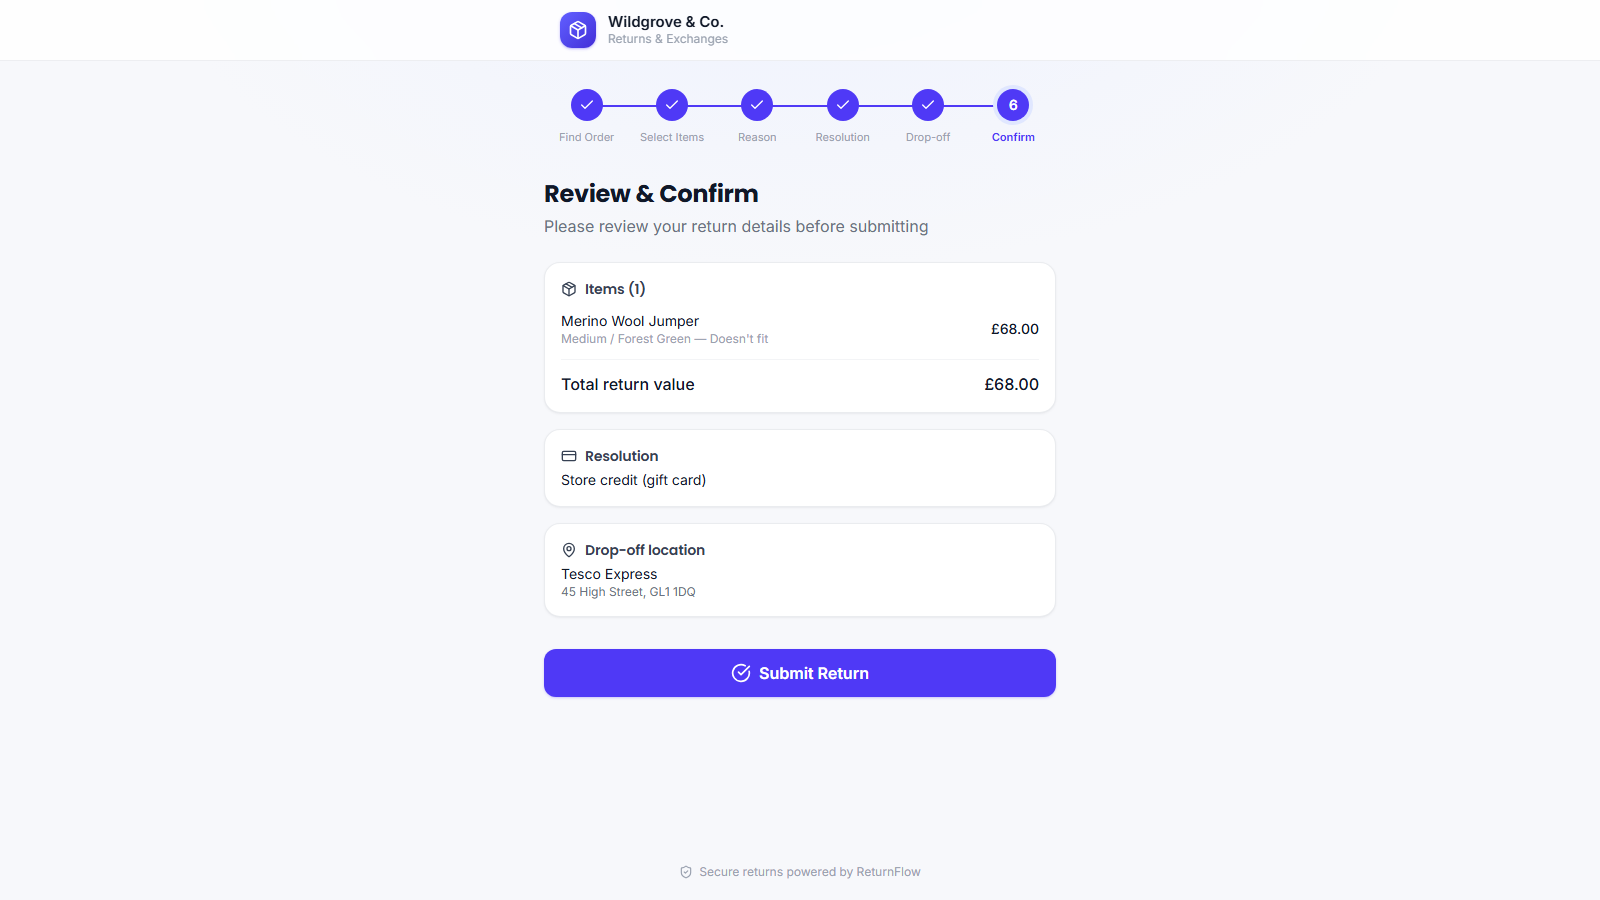
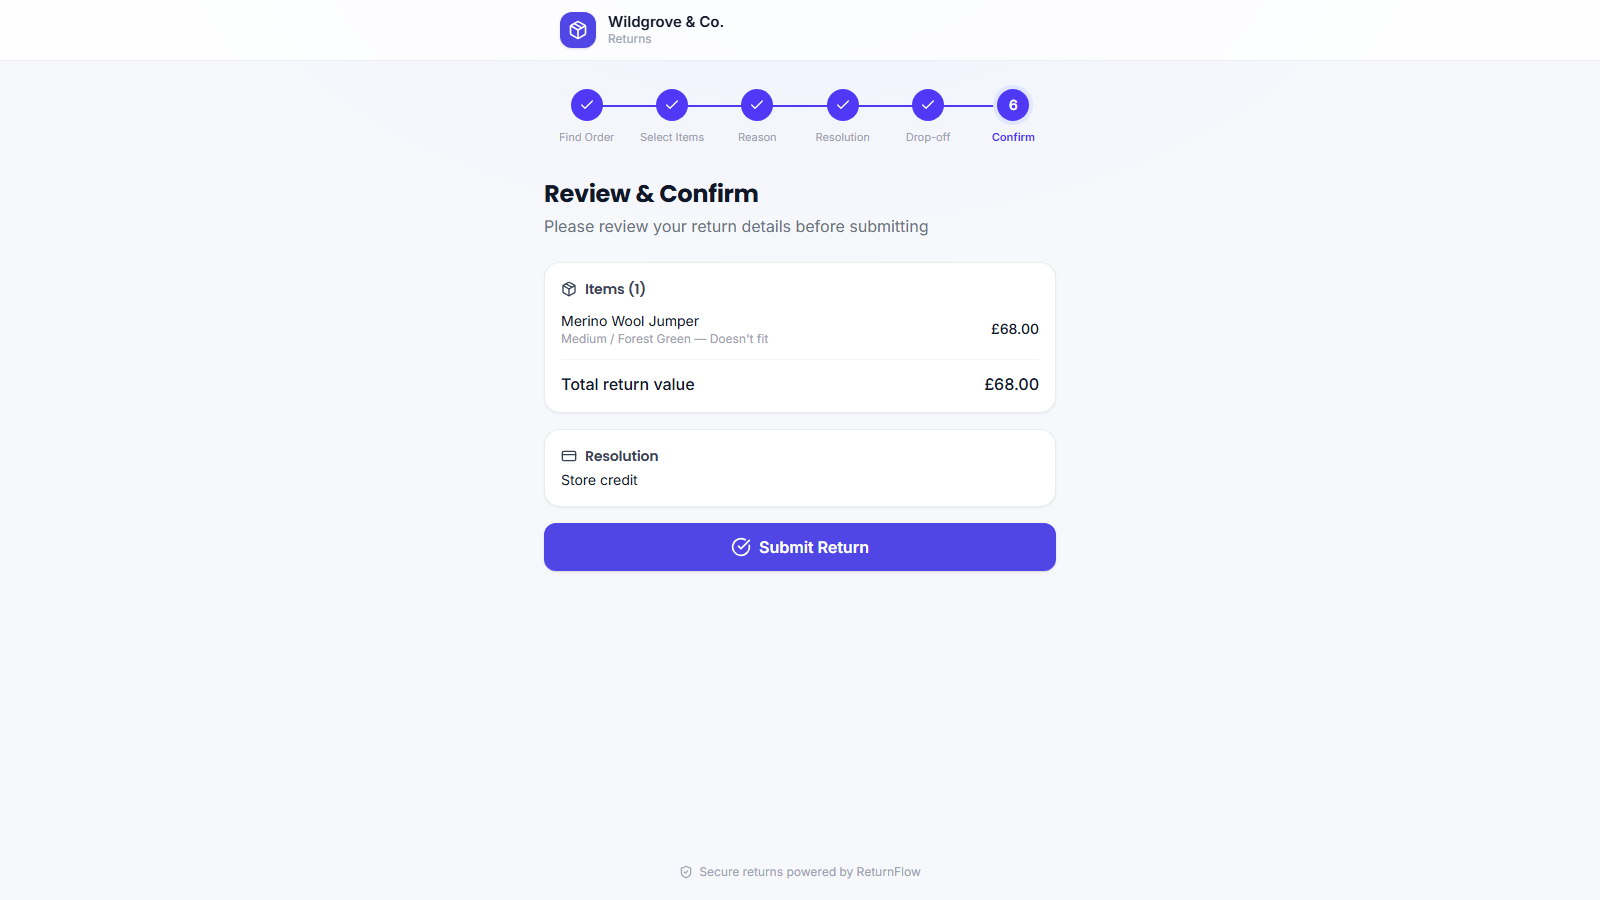
fix(listing): screenshots and wording show only features the app has
App Store requirement 1.1.4 (factual listing). The screenshots were
captured in June, before exchanges were switched off and before store
credit moved from gift cards to Shopify store credit.

- Portal: header says "Returns" (was "Returns & Exchanges"). Demo data
  offers refund + store credit only and picks no drop-off point (the portal
  links to the carriers' own finders).
- Merchant: store credit is labelled "Store credit", not "gift card".
- Screenshots recaptured: all six portal steps, and the merchant return
  detail (a carrier PDF label instead of a home-made QR code; the email step
  on the timeline).

Changed region(s): [[0.3125, 0.5289, 0.6875, 0.6844], [0.3438, 0.7156, 0.6562, 0.7778], [0.4062, 0.0311, 0.4375, 0.0622]]

diff --git a/web/portal/src/demoSeed.js b/web/portal/src/demoSeed.js
@@ -13,12 +13,16 @@ const ITEMS = [
     id: 'li-1', lineItemId: 'li-1', productId: 'p1', variantId: 'v1',
     title: 'Merino Wool Jumper', variantTitle: 'Medium / Forest Green',
     price: 68.0, quantity: 1, sku: 'MWJ-M-GRN',
+    // What the live default policy offers (exchanges are switched off), so
+    // screenshots only show features the app actually has.
+    resolutions: ['REFUND', 'STORE_CREDIT'],
     imageUrl: 'https://images.unsplash.com/photo-1620799140408-edc6dcb6d633?w=200&h=200&fit=crop',
   },
   {
     id: 'li-2', lineItemId: 'li-2', productId: 'p2', variantId: 'v2',
     title: 'Canvas Tote Bag', variantTitle: 'Natural',
     price: 24.0, quantity: 1, sku: 'CTB-NAT',
+    resolutions: ['REFUND', 'STORE_CREDIT'],
     imageUrl: 'https://images.unsplash.com/photo-1597484661643-2f5fef640dd1?w=200&h=200&fit=crop',
   },
 ];
@@ -41,9 +45,7 @@ export const DEMO_DATA = {
   photos: {},
   resolution: 'STORE_CREDIT',
   carrier: 'evri',
-  dropoff: {
-    id: 'evri-1', name: 'Tesco Express', address: '45 High Street, GL1 1DQ',
-    distance: '0.2 miles', openingHours: '6am–11pm daily', type: 'ParcelShop',
-  },
+  // The portal links to the carriers' own drop-off finders; no point is picked.
+  dropoff: null,
   returnResult: null,
 };

diff --git a/web/merchant/src/pages/PoliciesPage.jsx b/web/merchant/src/pages/PoliciesPage.jsx
@@ -259,7 +259,7 @@ export default function PoliciesPage() {
 
             <Text variant="headingSm" as="h3">Allowed resolutions</Text>
             <Checkbox label="Refund to original payment" checked={form.allowRefund} onChange={set('allowRefund')} />
-            <Checkbox label="Store credit (gift card)" checked={form.allowStoreCredit} onChange={set('allowStoreCredit')} />
+            <Checkbox label="Store credit (Shopify store credit)" checked={form.allowStoreCredit} onChange={set('allowStoreCredit')} />
             <Checkbox label="Exchange for another item" checked={form.allowExchange} onChange={set('allowExchange')} />
 
             <Text variant="headingSm" as="h3">Return fees (store currency)</Text>

diff --git a/web/portal/src/components/PortalLayout.jsx b/web/portal/src/components/PortalLayout.jsx
@@ -17,7 +17,7 @@ export default function PortalLayout({ shopName, branding, children }) {
             <span className="block font-semibold text-[15px] text-gray-900">
               {shopName || 'Returns'}
             </span>
-            <span className="block text-xs text-gray-400">Returns &amp; Exchanges</span>
+            <span className="block text-xs text-gray-400">Returns</span>
           </div>
         </div>
       </header>

diff --git a/web/merchant/src/pages/ReturnDetailPage.jsx b/web/merchant/src/pages/ReturnDetailPage.jsx
@@ -44,7 +44,7 @@ const REASON_LABELS = {
 
 const RESOLUTION_LABELS = {
   REFUND: 'Refund to original payment',
-  STORE_CREDIT: 'Store credit (gift card)',
+  STORE_CREDIT: 'Store credit',
   EXCHANGE: 'Exchange',
   KEEP_ITEM: 'Keep item (no return needed)',
 };
